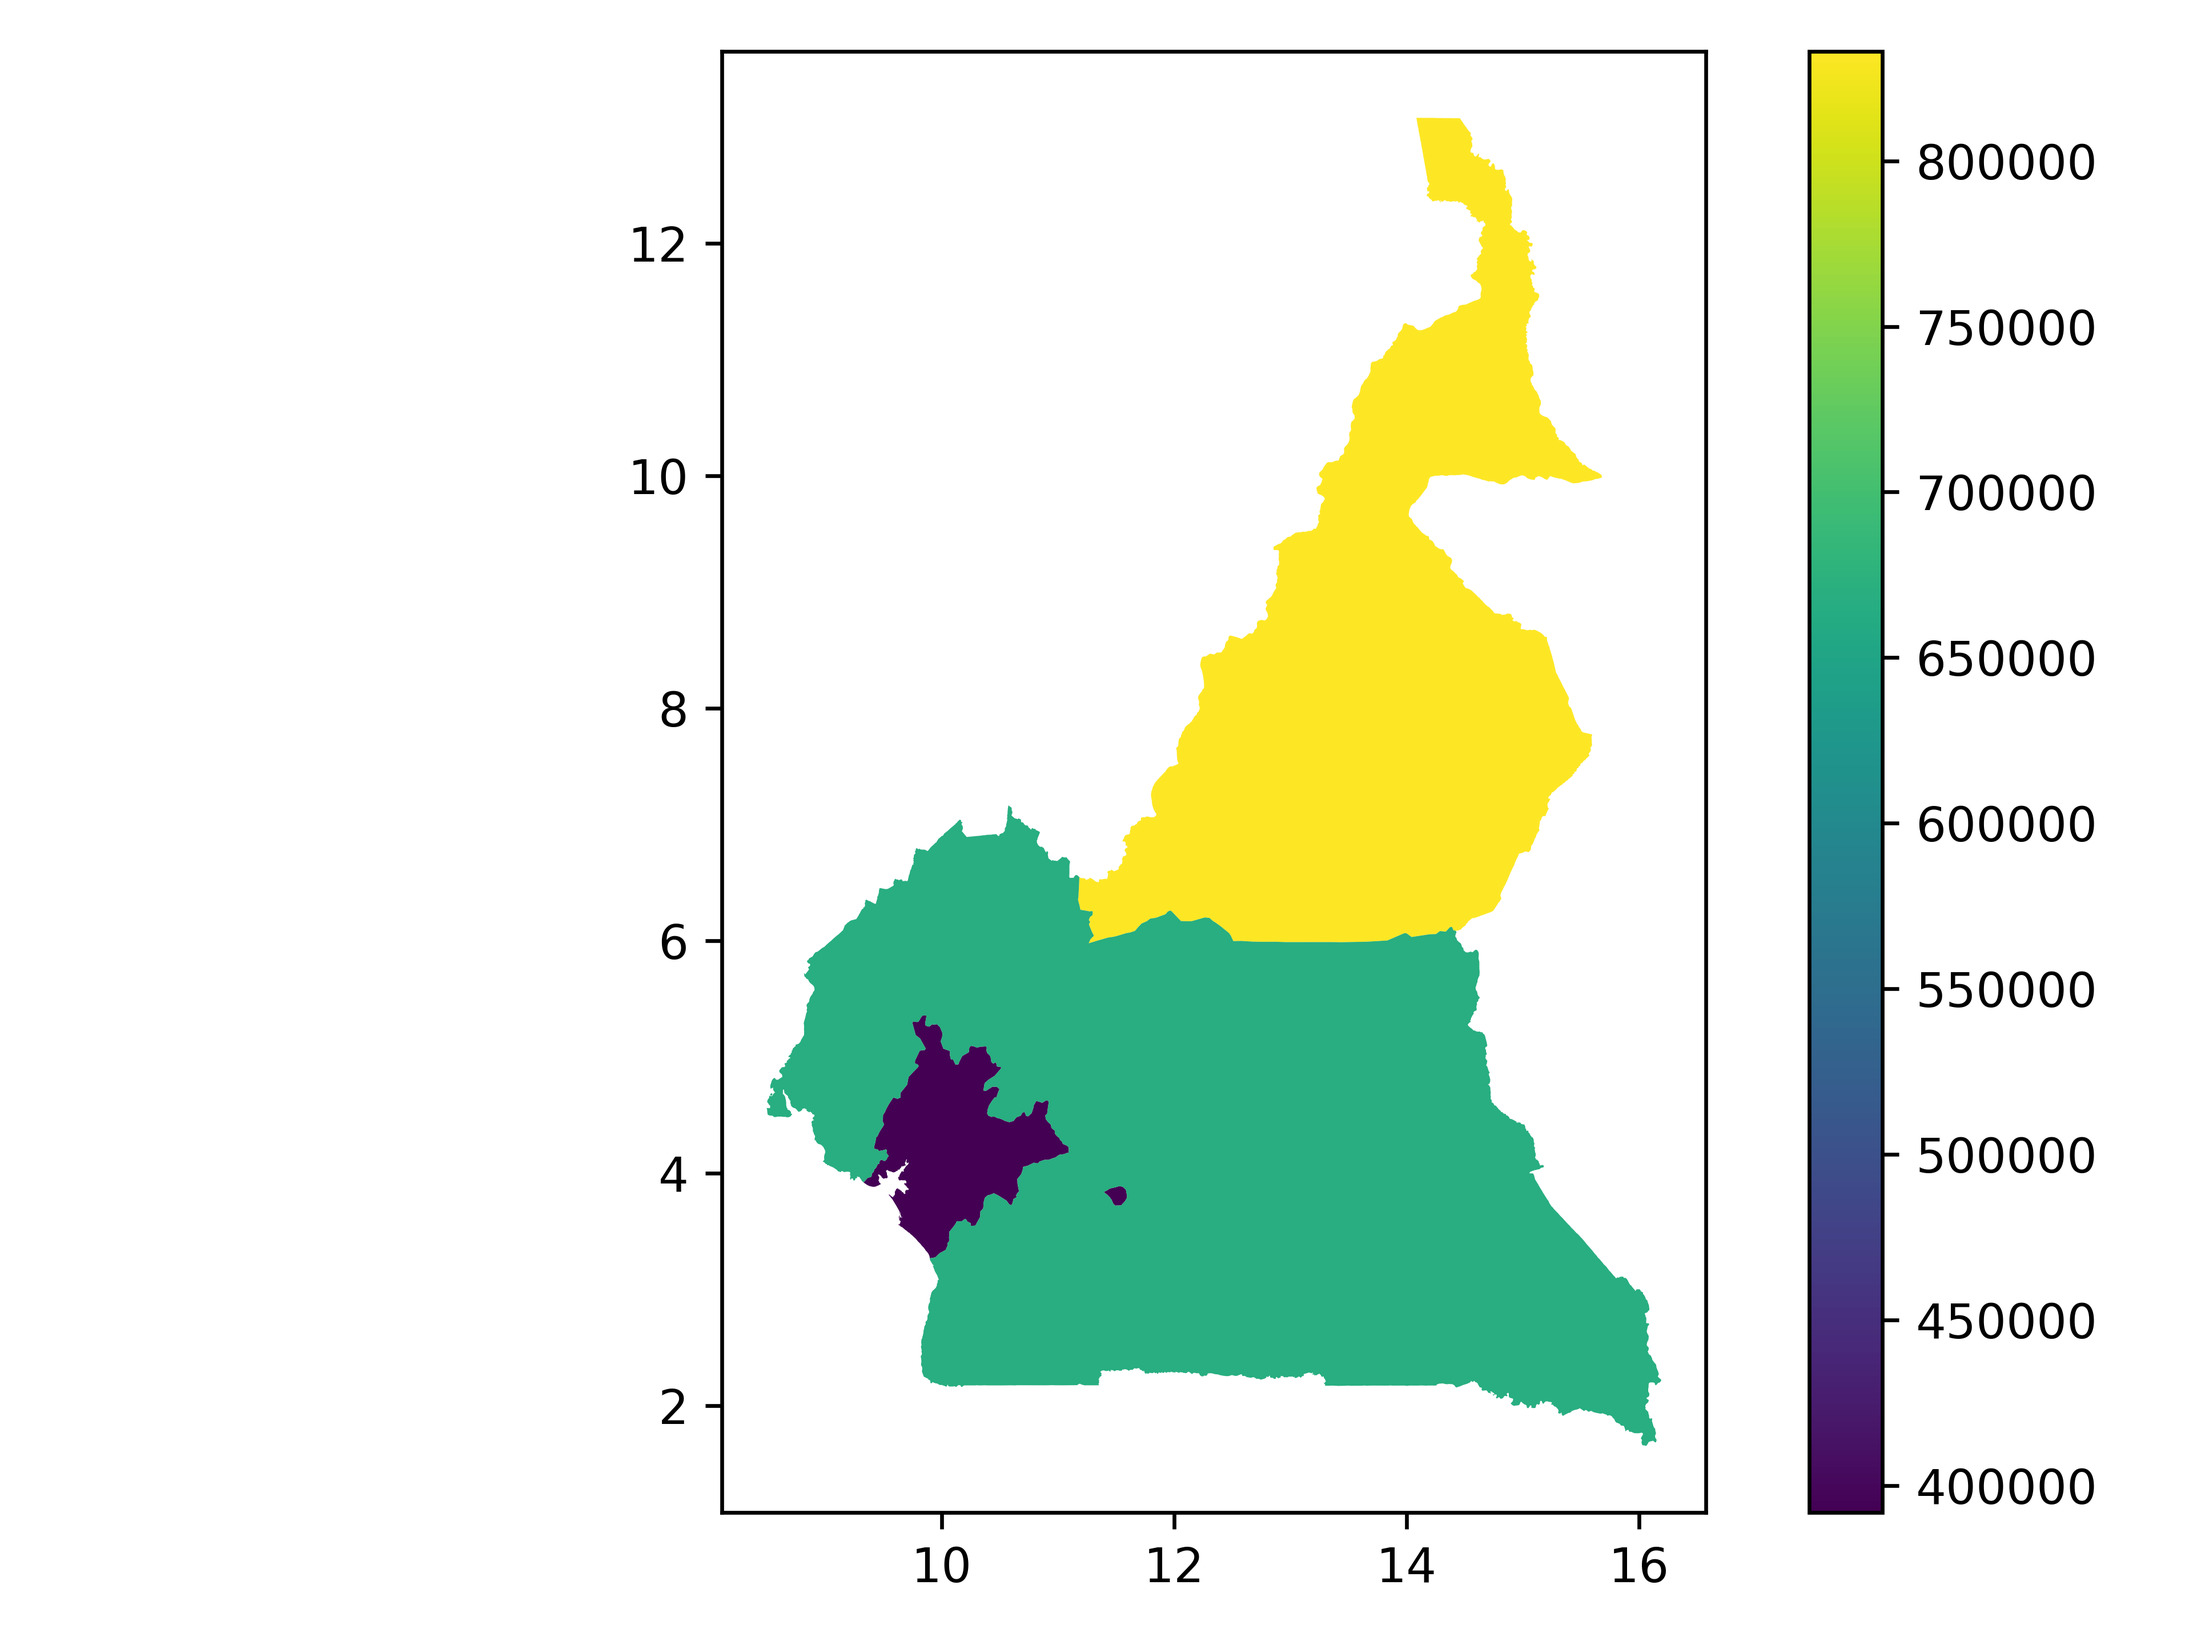
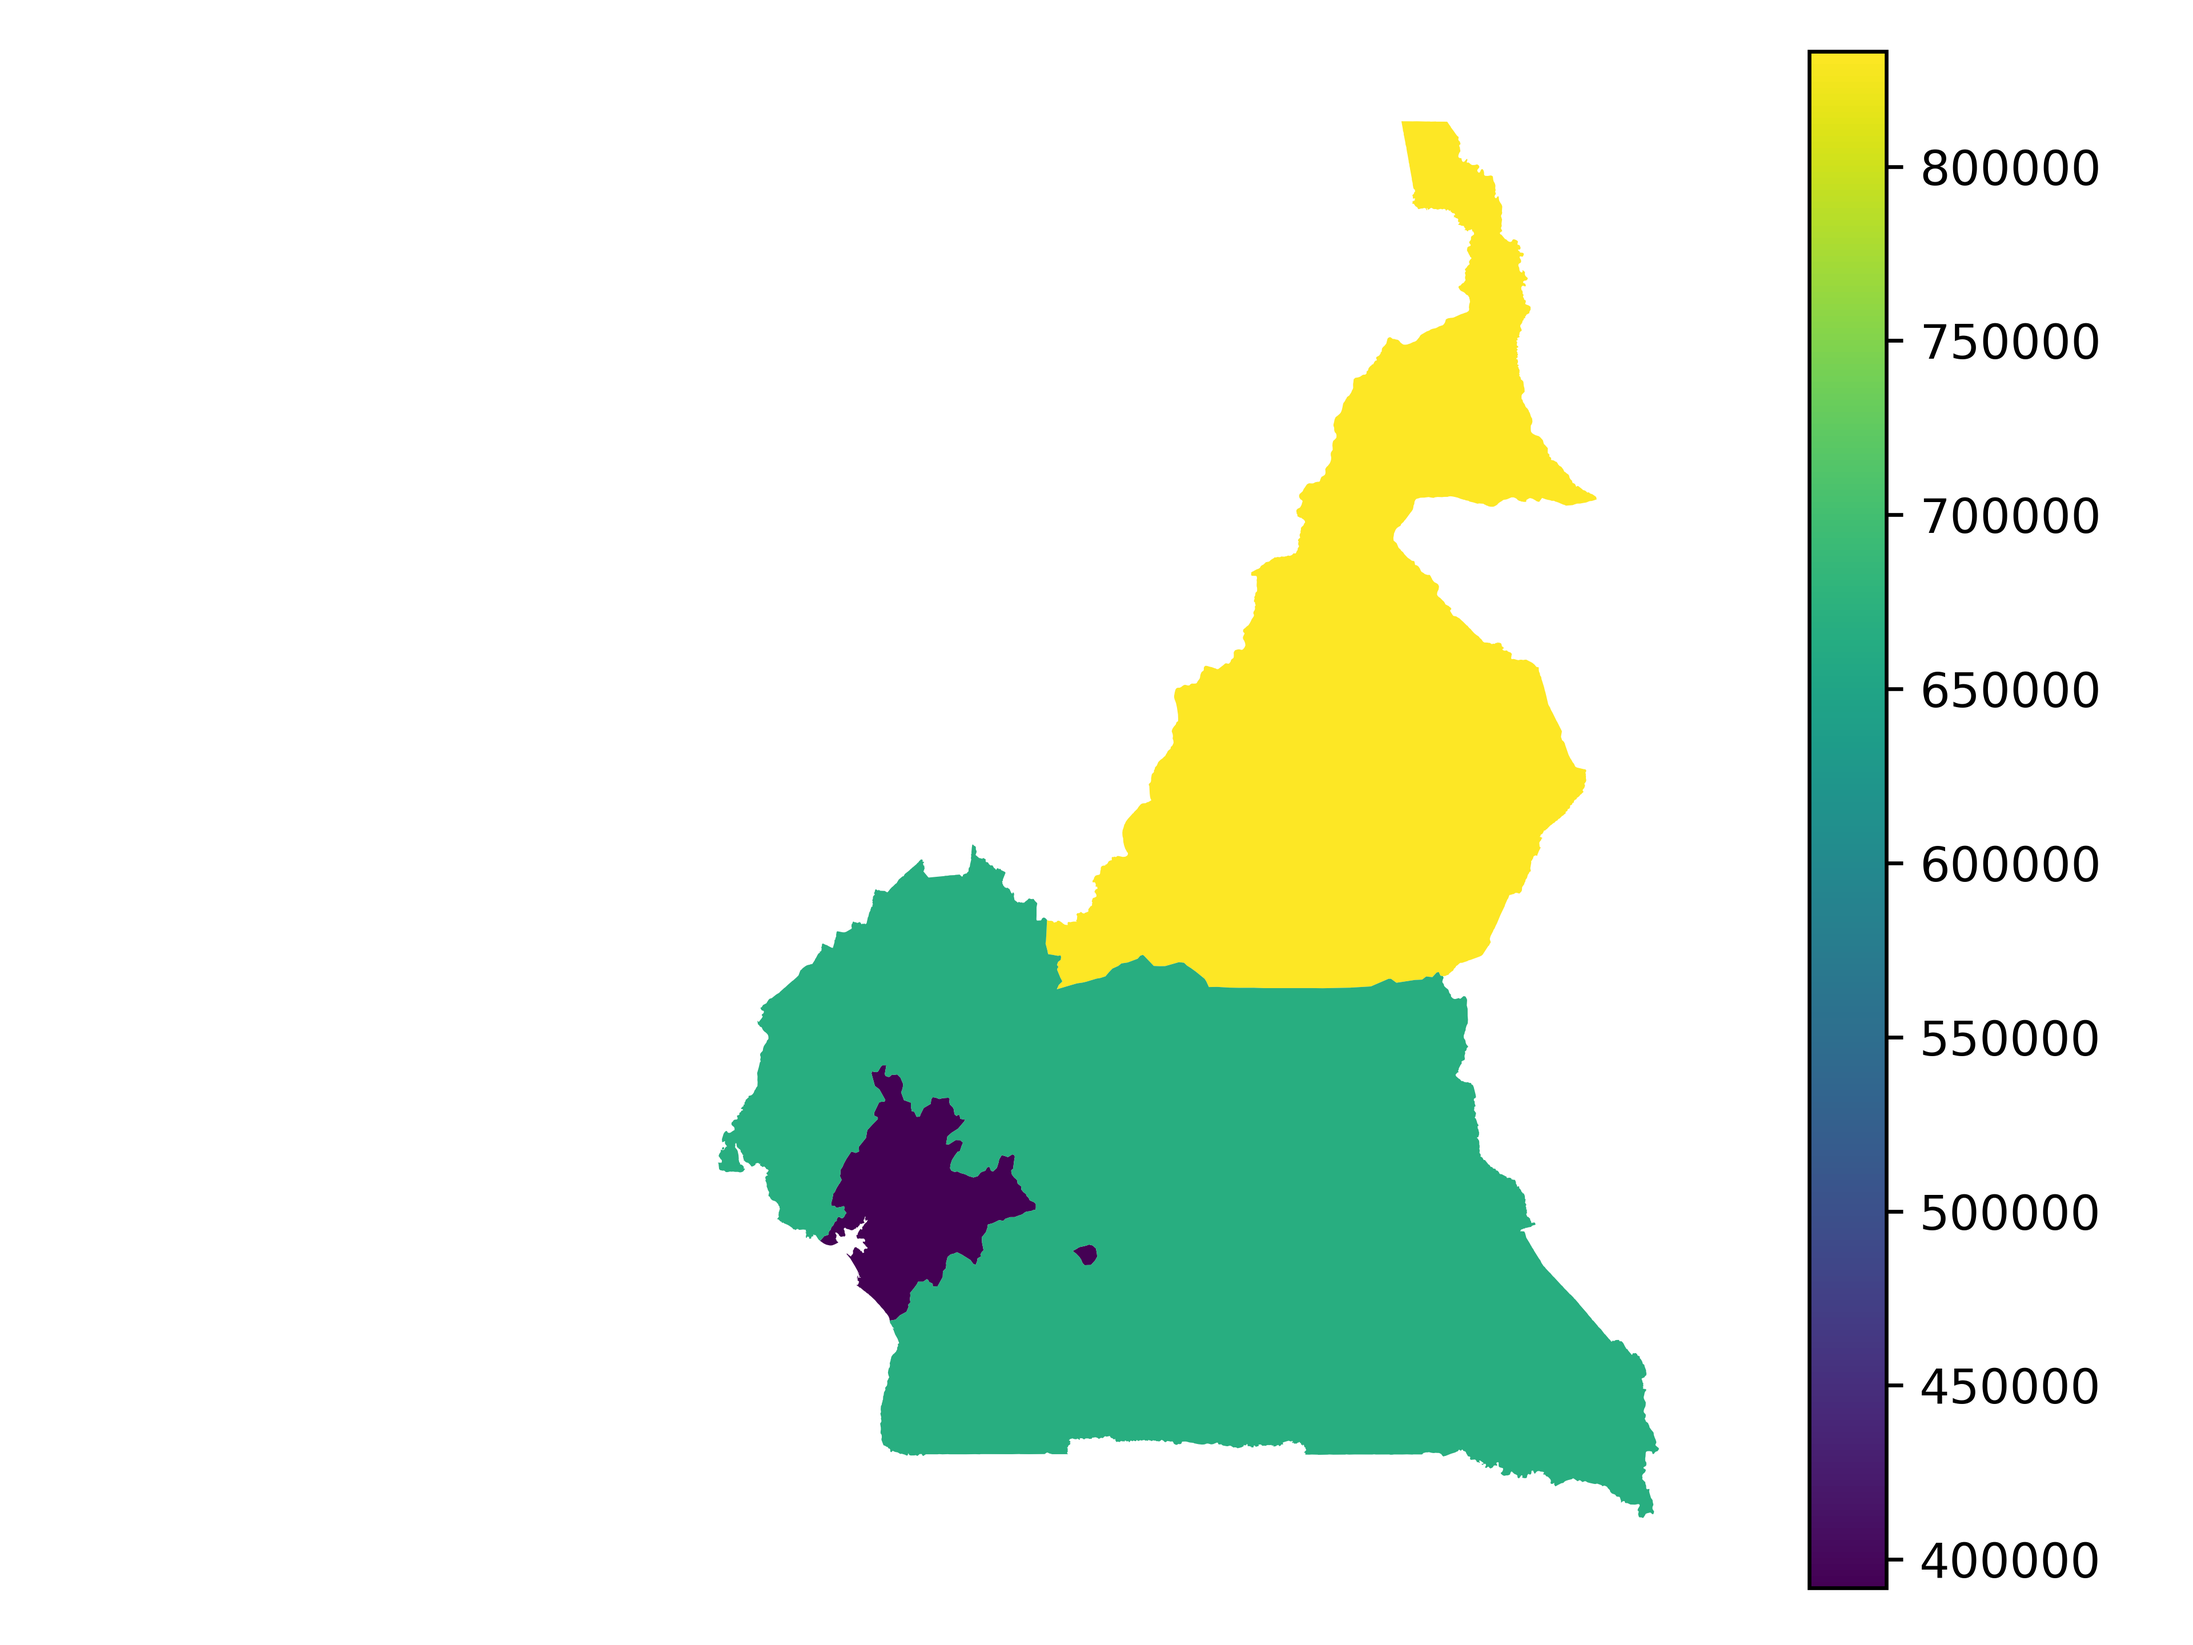
added multi map plotting

diff --git a/minimod/utils/plotting.py b/minimod/utils/plotting.py
@@ -1,4 +1,5 @@
 import matplotlib.pyplot as plt
+import numpy as np
 from minimod.utils.exceptions import MissingOptimizationMethod
 
 class Plotter:
@@ -18,14 +19,14 @@ class Plotter:
     
     def _define_axis_object(self, fig = None, ax = None):
         
-        if fig is None or ax is None:
+        if ax is None:
             figure, axis = plt.subplots()
         else:
             figure, axis = fig, ax
         
         return figure, axis
             
-    def _plot_process(self, figure, axis):
+    def _plot_process(self, figure = None, axis = None):
         
         self._check_if_optimization()
         
@@ -42,7 +43,8 @@ class Plotter:
                     axis = None,
                     twin = False,
                     twin_ylabel = None,
-                    save = None):
+                    save = None,
+                    legend = None):
         
         fig, ax = self._plot_process(figure= figure, axis = axis)
         
@@ -71,7 +73,7 @@ class Plotter:
         
         ax.set_xlabel(xlabel)
         ax.set_ylabel(ylabel)
-        
+        ax.legend(legend, loc = 'upper left')
         plt.tight_layout()
         
         if save is not None:
@@ -102,7 +104,6 @@ class Plotter:
          )
         ax.set_xlabel(xlabel)
         ax.set_ylabel(ylabel)
-        
         plt.tight_layout()
         
         if save is not None:
@@ -136,32 +137,82 @@ class Plotter:
           
     
     def _plot_chloropleth(self, 
-                          intervention = None,
+                          intervention = slice(None),
                           time = None,
                           optimum_interest = None,
                           map_df = None, 
                           merge_key = None, 
-                          figure = None, 
-                          axis = None,
+                          ax = None,
                           title = None, 
                           save = None):
         
+        
+        fig, ax = self._plot_process(axis = ax)
+
+        
         df = (self._merge_shape_file(map_df=map_df,merge_key=merge_key)
-              .loc[(intervention, slice(None), time )]
+              .loc[(intervention, slice(None), time ), :]
               )
         
         
-        fig, ax = self._plot_process(figure= figure, axis = axis)
-        
+                
     
-        df.plot(column = optimum_interest, legend = True)
-        
+        df.plot(column = optimum_interest, ax = ax, legend = True)
+        ax.set_title(title)
+        plt.axis('off')
+
         plt.tight_layout()
         
         if save is not None:
             plt.savefig(save, dpi=600)
             
-        return fig, ax
+        return ax
+
+            
+    def _plot_multi_chloropleth(self, 
+                                t = None, 
+                                intervention = None,
+                                optimum_interest = None,
+                                map_df = None,
+                                merge_key = None,
+                                save = None):
+        
+        if t is None:
+            t = (self.model.opt_df
+                 .index
+                 .get_level_values(level = self.model._time)
+                 .unique()
+                 .values
+                 )
+        
+        mod = len(t) % 2
+                
+        fig, axs = plt.subplots(nrows = int(len(t)/2) + mod , 
+                                ncols=2,
+                                figsize = (10,20))
+        
+        
+        for ax, plot in zip(np.array(axs).flatten(), t):
+            
+            self._plot_chloropleth(intervention = intervention,
+                                   time = plot,
+                                   optimum_interest = optimum_interest,
+                                   map_df = map_df, 
+                                   merge_key = merge_key, 
+                                   ax = ax,
+                                   title = f"T = {plot}")
+            ax.set_xticklabels([])
+            ax.set_xticks([])
+            ax.set_yticklabels([])
+            ax.set_yticks([])
+            
+        plt.tight_layout()
+        plt.savefig(save)
+        
+        return fig, axs
+        
+        
+            
         
         
         

diff --git a/minimod/solvers/__init__.py b/minimod/solvers/__init__.py
@@ -454,7 +454,10 @@ class BaseSolver:
 
         return s._report()
     
-    def plot_time(self, fig = None, ax = None, save = None):
+    def plot_time(self, 
+                  fig = None, 
+                  ax = None,
+                  save = None):
         
         p = Plotter(self)
         
@@ -464,9 +467,16 @@ class BaseSolver:
                              ylabel = 'Coverage',
                              twin =True,
                              twin_ylabel= "Currency",
-                             save = save)
+                             save = save,
+                             legend = ['Optimal Coverage',
+                                       'Optimal Costs'],
+                             figure=fig,
+                             axis=ax)
 
-    def plot_opt_val_hist(self, fig = None, ax = None, save = None):
+    def plot_opt_val_hist(self, 
+                          fig = None, 
+                          ax = None, 
+                          save = None):
         
         p = Plotter(self)
         
@@ -479,23 +489,38 @@ class BaseSolver:
                             save = save)
         
     def plot_chloropleth(self,
-                         intervention,
-                         time,
-                         optimum_interest,
-                         map_df,
-                         merge_key,
-                         fig, 
-                         ax,
+                         intervention = slice(None),
+                         time = None,
+                         optimum_interest = 'b',
+                         map_df = None,
+                         merge_key = None,
+                         ax = None,
                          save = None):
         
         p = Plotter(self)
+                
+        if optimum_interest == 'b':
+            opt = 'opt_benefit'
+        elif optimum_interest == 'c':
+            opt = 'opt_costs'
+        elif optimum_interest == 'v':
+            opt = 'opt_vals'
+        else:
+            raise Exception("Not one of the allowed variables for map plotting. Try again.")
         
-        return p._plot_chloropleth(intervention = intervention,
-                                   time = time,
-                                   optimum_interest = optimum_interest,
-                                   map_df = map_df,
-                                   merge_key = merge_key,
-                                   figure = fig,
-                                   axis =ax,
-                                   title = None,
-                                   save = save)
+        if time is not None and len(time) == 1:                
+                return p._plot_chloropleth(intervention = intervention,
+                                        time = time,
+                                        optimum_interest = opt,
+                                        map_df = map_df,
+                                        merge_key = merge_key,
+                                        title = None,
+                                        ax= ax,
+                                        save = save)
+        else:            
+            return p._plot_multi_chloropleth(t= time,
+                                             intervention=intervention,
+                                             optimum_interest=opt,
+                                             map_df=map_df,
+                                             merge_key = merge_key,
+                                             save = save)

diff --git a/examples/example1.py b/examples/example1.py
@@ -7,7 +7,6 @@
 # %%
 #!%load_ext autoreload
 # %%
-
 #!%autoreload 2
 import sys
 import pandas as pd
@@ -154,11 +153,15 @@ agg_geo_df = geo_df.dissolve(by = 'space')
 
 # %%
 
-c.plot_chloropleth('vasoil',
-                   5,
-                   'opt_benefit',
-                   agg_geo_df,
-                   'space',
-                   fig = None,
-                   ax = None,
+c.plot_chloropleth(intervention='vasoil',
+                   time = [5],
+                   optimum_interest='b',
+                   map_df = agg_geo_df,
+                   merge_key= 'space',
                    save = "map.png")
+
+# %%
+c.plot_chloropleth(optimum_interest='b',
+                   map_df = agg_geo_df,
+                   merge_key= 'space',
+                   save = "map2.png")
